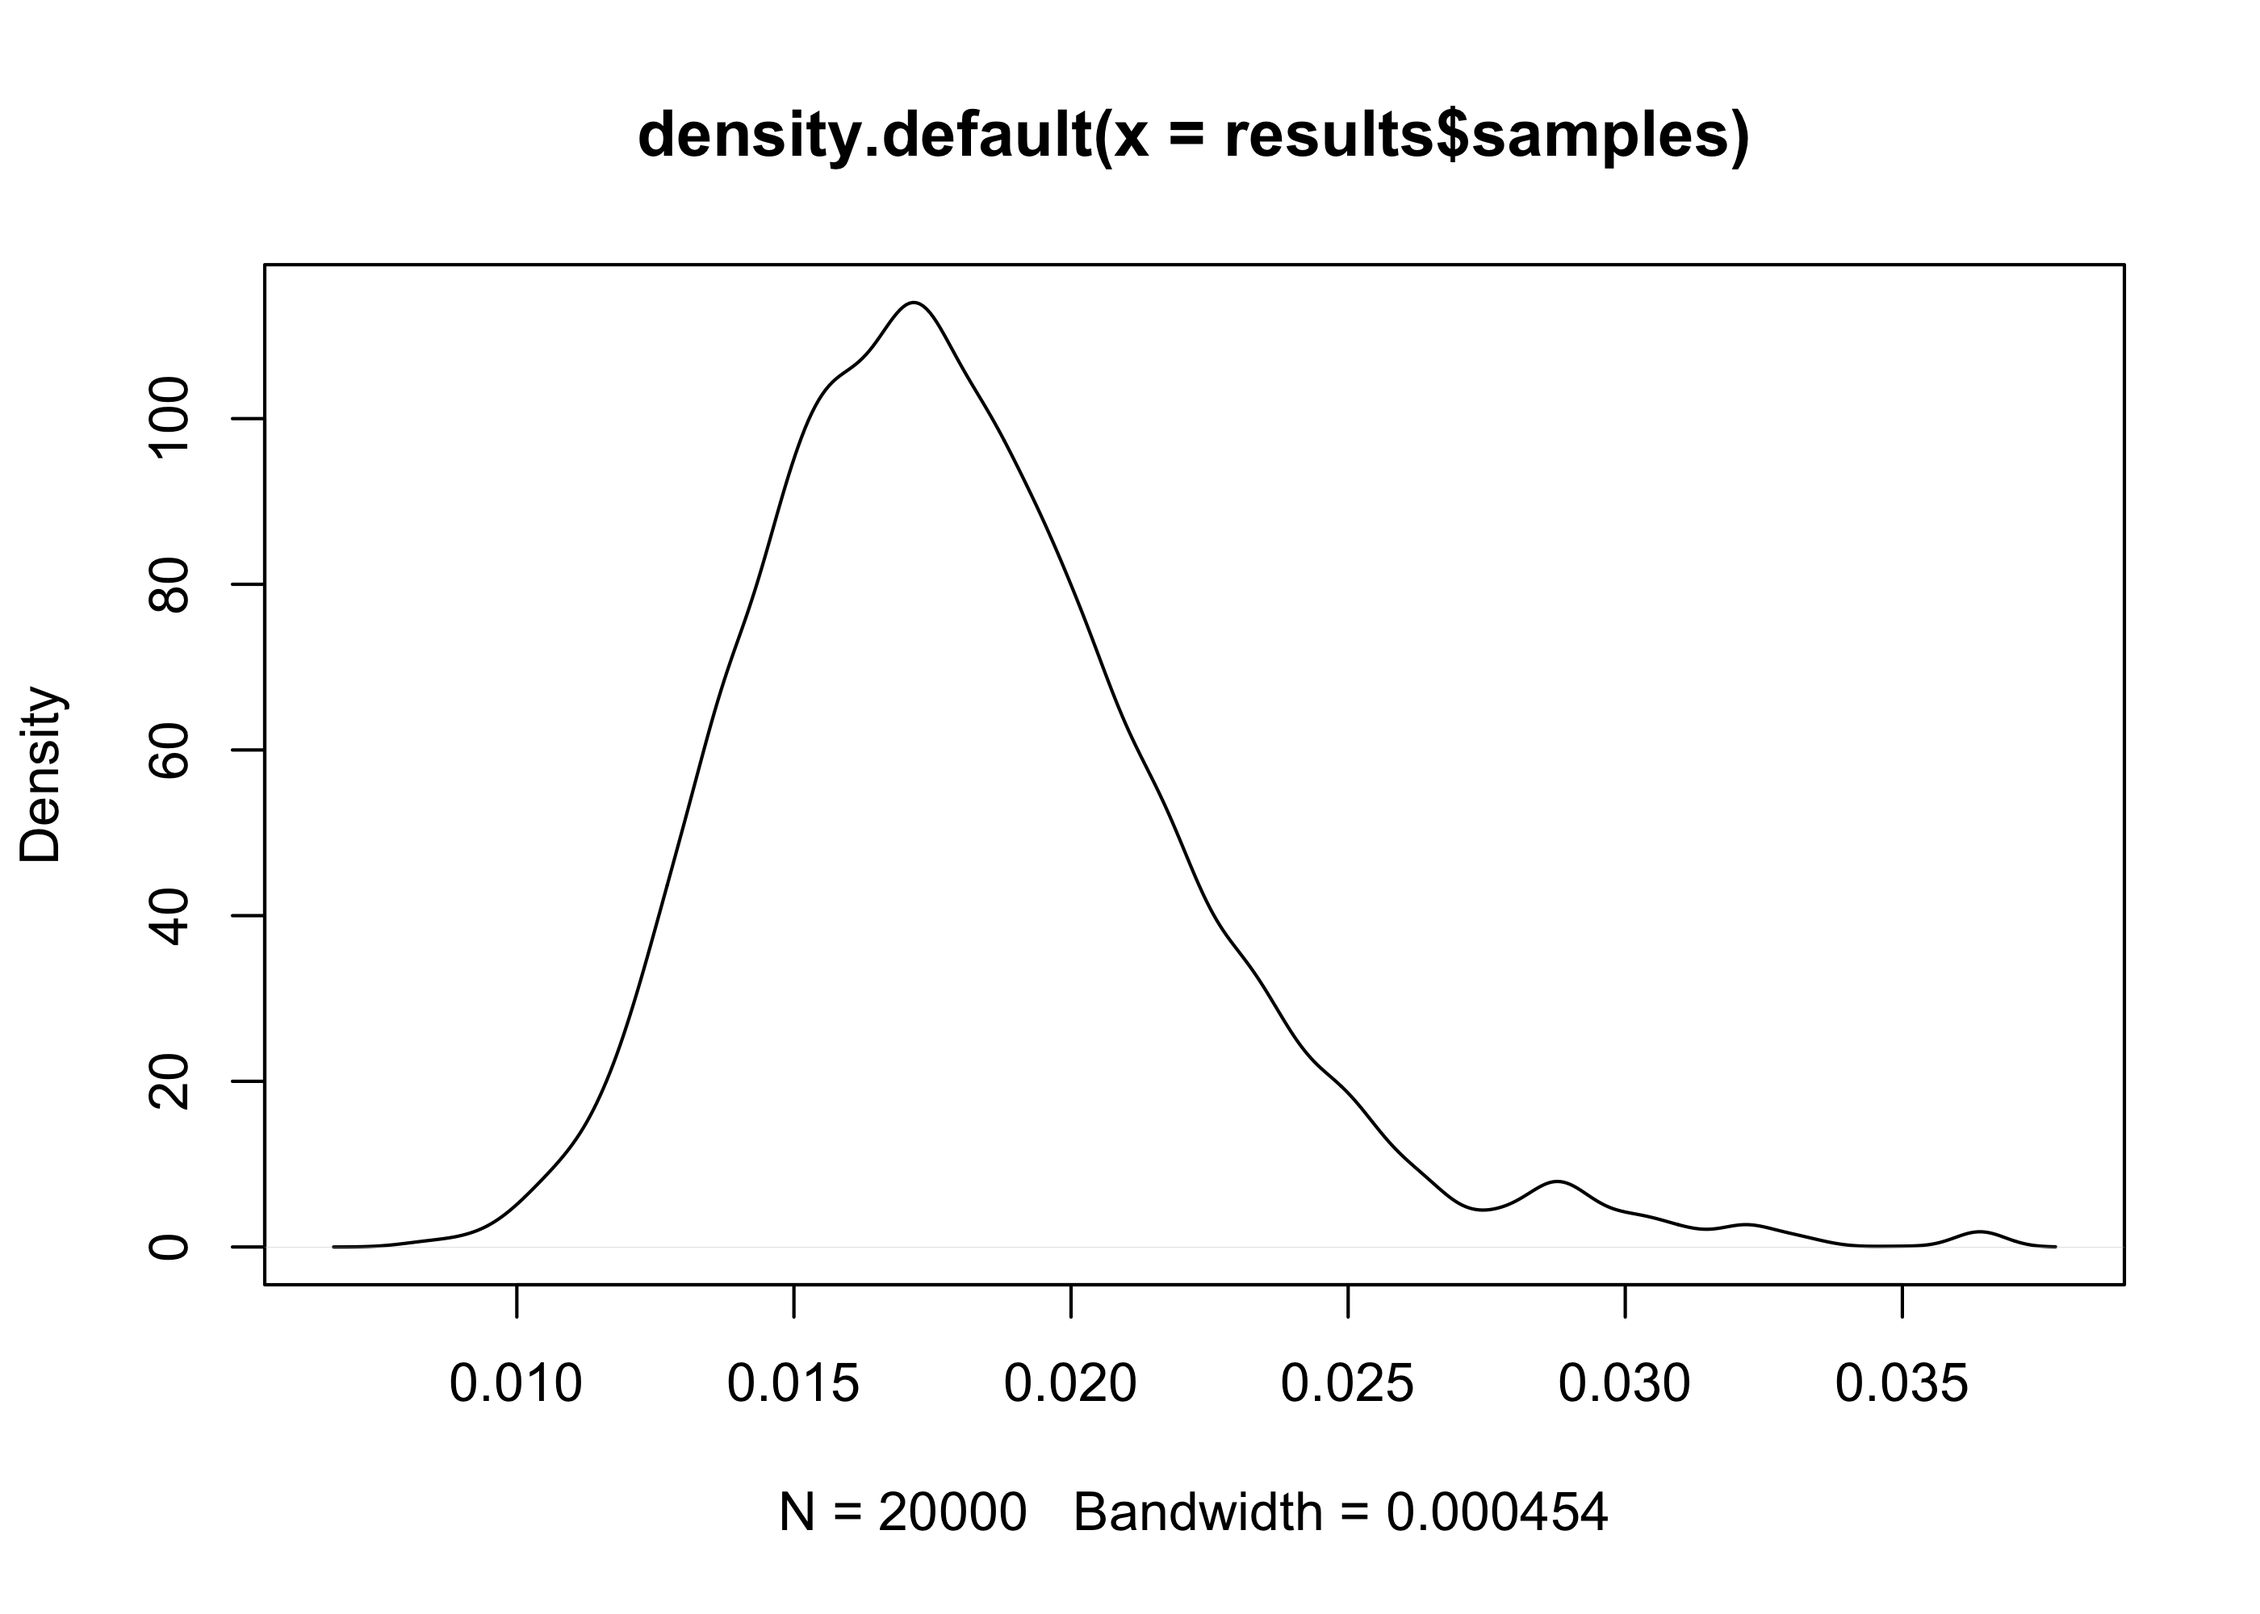
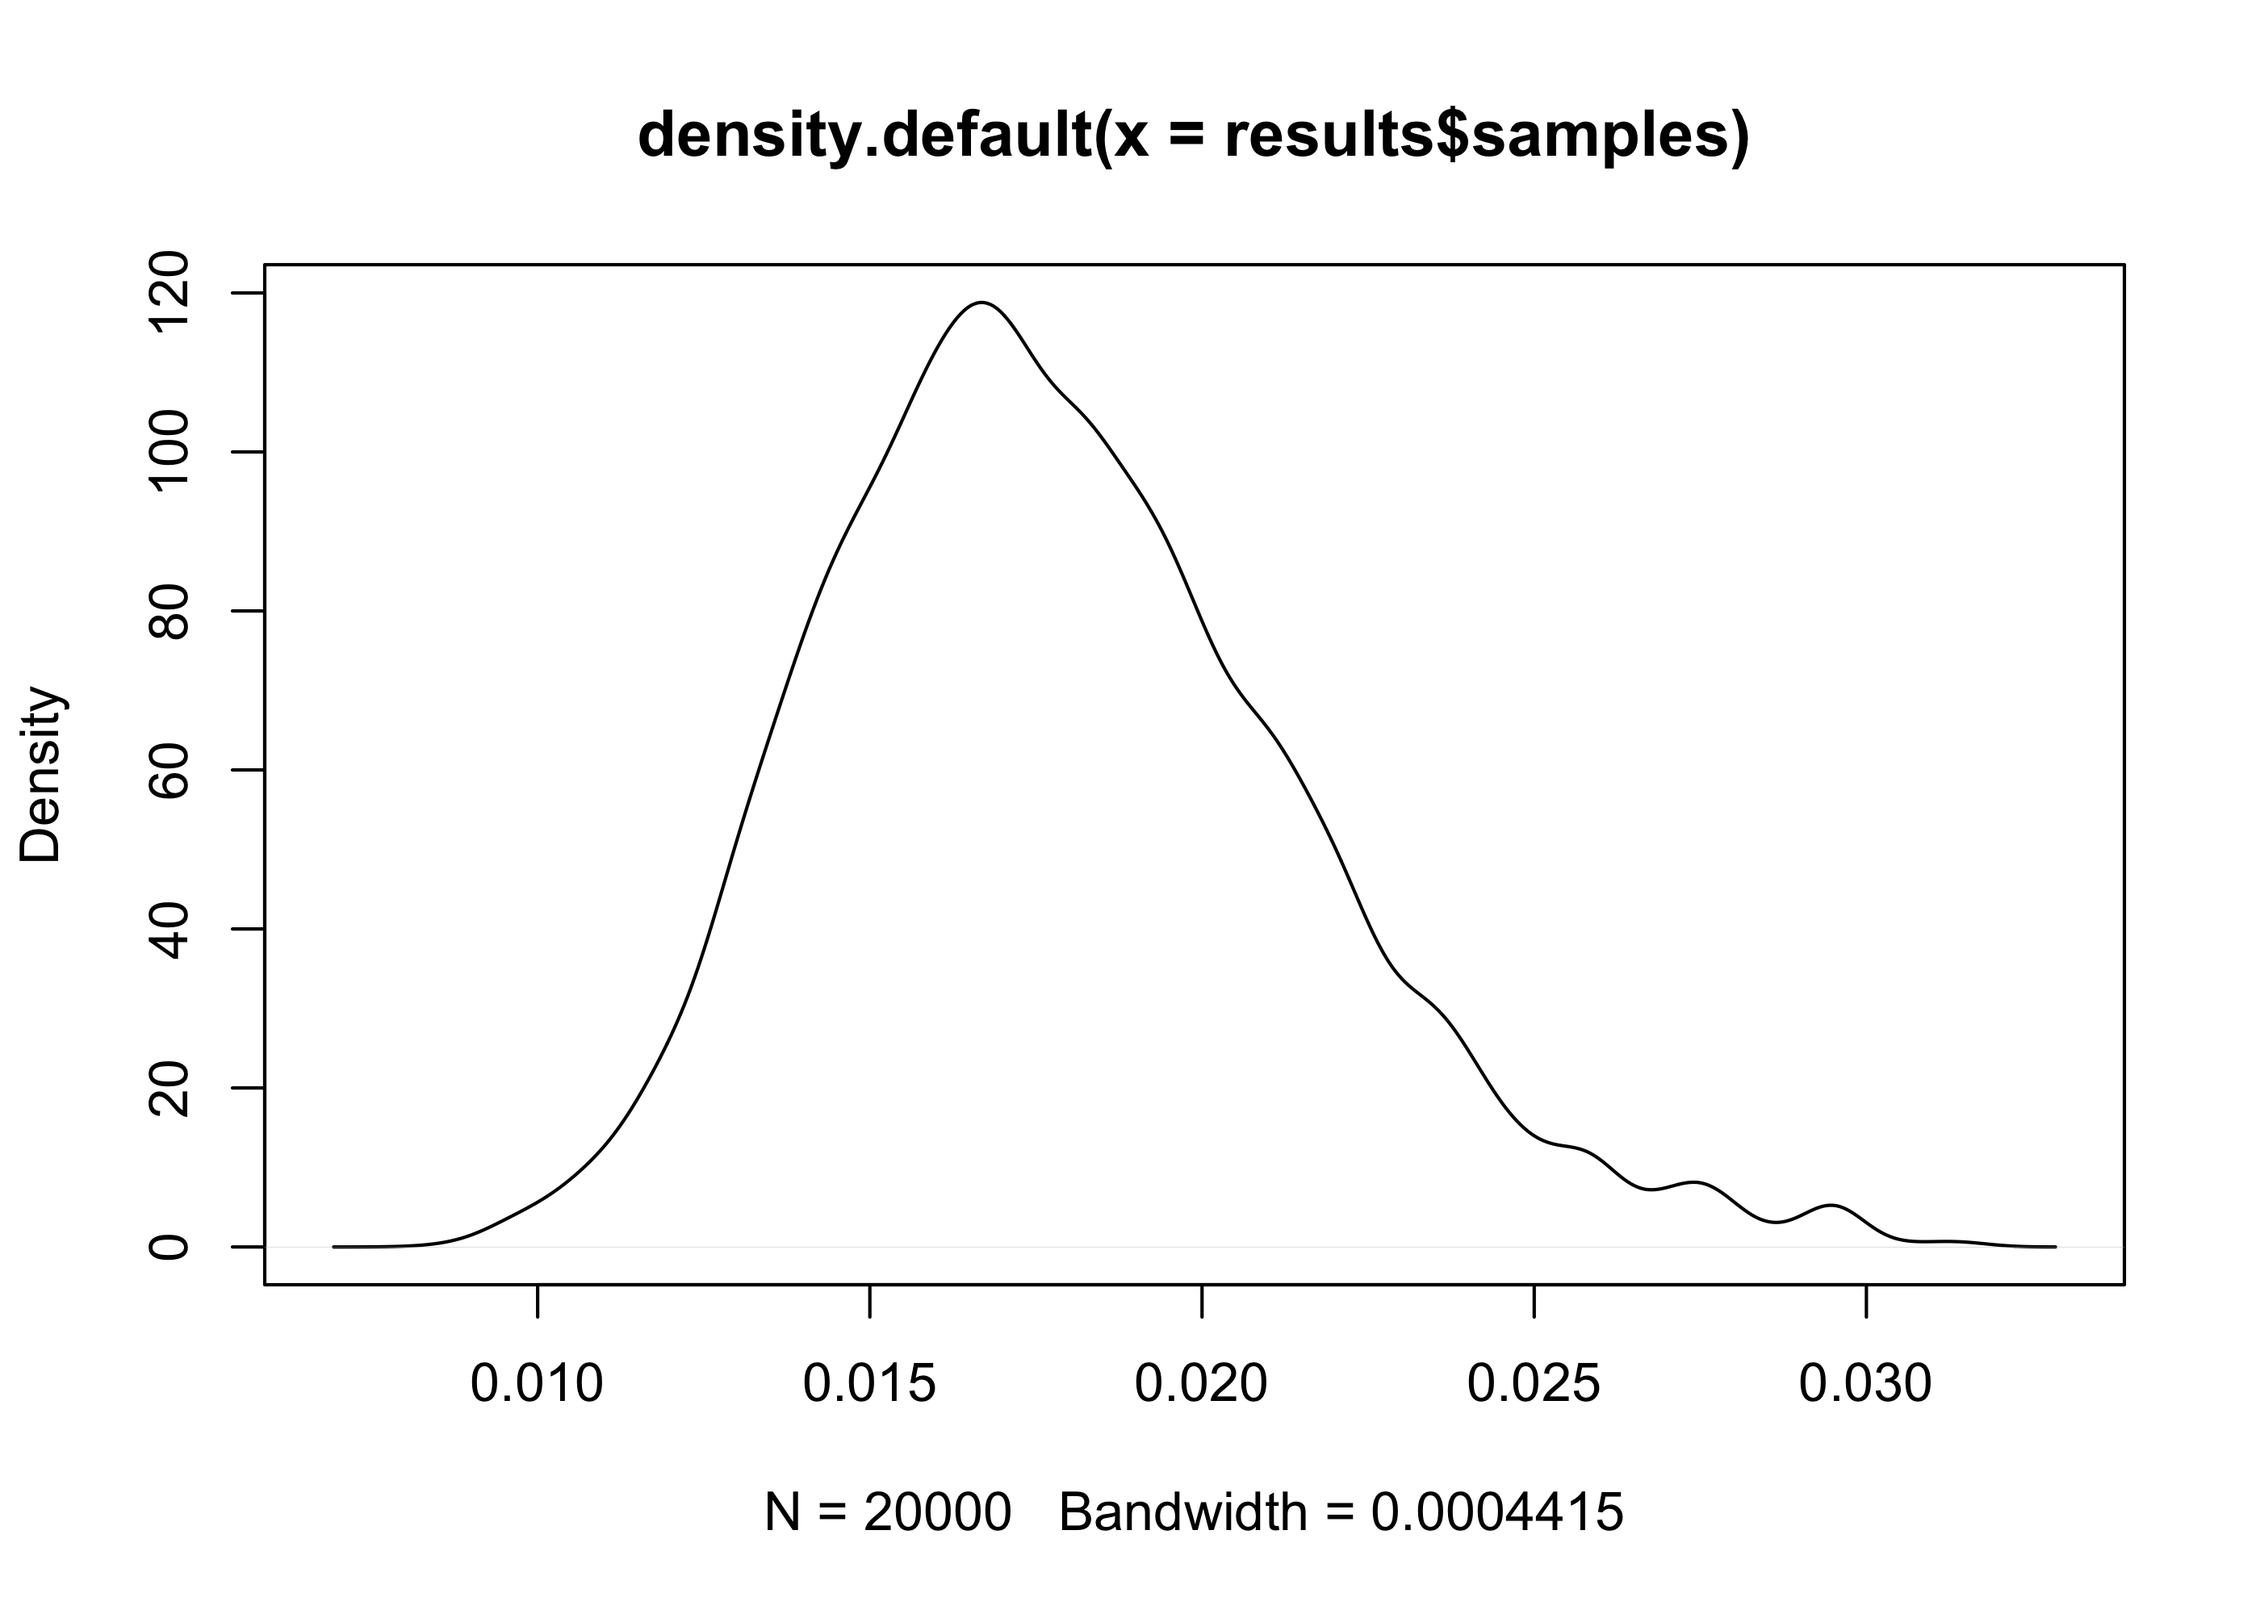
- Typo fixes. - Added more explanations to the optimization plot

diff --git a/README.md b/README.md
@@ -14,7 +14,7 @@ to pool and the total number of tests to perform, focusing on achieving
 the maximum estimation performance (low uncertainty and estimation
 error) while keeping the total amount of tests low. In the package there
 are functions to simulate study outcomes, optimize the study design, and
-finally, analyze the results of a pooled study to retrieve the 
+finally, analyze the results of a pooled study to retrieve the
 prevalence estimates. The package is based on a Bayesian framework, with
 the possibility to perform a full hierarchical analysis including
 uncertainty due to the sensitivity in acquiring the testing material.
@@ -41,8 +41,8 @@ population/risk group, given the results of a pooled laboratory test.
 Let’s assume a test with the following design: 2000 individual
 biological samples divided in 10 samples per testing pool (pool size),
 for a total of 200 pools. In this experiment we observe 30 positive
-pools (15%). With get\_estimates it is possible to estimate the underlying
-prevalence:
+pools (15%). With `get_estimates()` it is possible to estimate the
+underlying prevalence:
 
 ``` r
 library(PooledPrevalence)
@@ -80,7 +80,7 @@ results <- get_estimates(10, 200, 30, method = 'HB')
 #> 
 #> 
 #> @@@@@@@@@@@@@@@@@@@@@@@@@@@@@@@@@@@@@@@@@@@@@@@@@@@@@@@@@
-#> The Metropolis acceptance rate was 0.56020
+#> The Metropolis acceptance rate was 0.67610
 #> @@@@@@@@@@@@@@@@@@@@@@@@@@@@@@@@@@@@@@@@@@@@@@@@@@@@@@@@@
 
 plot(density(results$samples))
@@ -91,22 +91,22 @@ plot(density(results$samples))
 ## Hypothesis testing
 
 Having access to the posterior samples allows Bayesian hypothesis
-testing for decision making. For example a certain region may want to
-remove a certain control measure only if the average prevalence is below
-2% with a \> 90% probability:
+testing for decision making. For example, a public health authority may
+want to remove in a geographical region a certain control measure only
+if the average prevalence is below 2% with a \> 90% probability:
 
 ``` r
 
 results <- get_estimates(10, 200, 30, iters = 200000)
 
 mean(results$samples < .02)
-#> [1] 0.89222
+#> [1] 0.893245
 ```
 
-In this case the probability of a mean prevalence below 2% is 89.2%,
+In this case the probability of a mean prevalence below 2% is 89.3%,
 therefore there’s not enough evidence in favor of removing the control
 measure. We may want to increase the sample size of the study or wait
-more. The Bayesian framework allows to simply add new samples the the
+more. The Bayesian framework allows to simply add new samples to the
 already collected ones and simply update the analysis.
 
 ``` r
@@ -120,13 +120,13 @@ new.positve.pools <- 9
 new.results <- get_estimates(10, 200 + new.tested.pools, 30 + new.positve.pools, iters = 200000)
 
 mean(new.results$samples < .02)
-#> [1] 0.92104
+#> [1] 0.92221
 ```
 
-The new probability is 92.1%, so we have enough evidence to remove the
+The new probability is 92.2%, so we have enough evidence to remove the
 control measure.
 
-Finally we want to ascertain the probability that region A, with 30
+Finally, we want to ascertain the probability that region A, with 30
 positive pools out of 200, has a lower prevalence or region B (38
 positive pools out of 180).
 
@@ -137,7 +137,7 @@ region.A <- get_estimates(10, 200, 30, iters = 200000)
 region.B <- get_estimates(10, 180, 38, iters = 200000)
 
 mean(region.A$samples < region.B$samples)
-#> [1] 0.939335
+#> [1] 0.939065
 ```
 
 ## Study design optimization
@@ -152,15 +152,15 @@ available resources (number of sampled individuals `n.max` and maximum
 number of laboratory test to perform `w.max`), the expected (maximal)
 prevalence, and by the possible reduction in sensitivity due to an
 excessive number of samples in the same pool (`s.max`). This number
-depends from a number of factors (the pathogen, the sensitivity of the
+depends on a number of factors (the pathogen, the sensitivity of the
 test, the laboratory infrastructure and technique), therefore it needs
 to be decided after appropriate local validation tests. A good starting
 point for validation is between 10 and 20 samples per pool.
 
 In the following example we investigate the possible designs for a study
-with a maximal pool size of 15 and maximal number of tests and
+with a maximal pool size of 15 and a maximal number of tests and
 individuals to sample equal to 2000. We also set a maximal expected
-prevalence 0f 5%. Given the nature of pooled testing, the statistical
+prevalence of 5%. Given the nature of pooled testing, the statistical
 accuracy decreases with the prevalence, so it is better to select a
 value which is higher than the prevalence we actually expect to find, in
 order not to end up with an underpowered study.
@@ -174,18 +174,20 @@ plot_optimization_grid(grid)
 
 <img src="man/figures/README-optimization_grid-1.png" width="100%" />
 
-We can observe that the best “optimization window” is achieved with a
-pool size `s` of 10 or more and with a number of test `w` higher than
-108.
+The plot shows the “optimization windows” with different colors, ordered
+by the average score (lower is better).
+
+We can observe that the best window is achieved with a pool size `s` of
+10 or more and with a number of test `w` higher than 108.
 
 Once a window has been identified, simulation tests can be used to
 evaluate the statistical performance. The tests need to be carried on
-specific couple of values of pool size `s` and number of tests `w`.
+specific couples of values of pool size `s` and number of tests `w`.
 
 In order to decrease the risk of sensitivity problems we suggest to
 evaluate the more conservative designs in term of pool size (lower `s`),
 but validation studies can allow to choose a higher value. Regarding the
-number of test, one should use the higher number that is achievable
+number of tests, one should use the higher number that is achievable
 during the study, since the higher the number of tests, the higher the
 statistical precision; through pooling the maximum number of test needed
 is already decreased by a factor equal to `s` (e.g. for `s == 10`, given
@@ -201,28 +203,28 @@ simulation.low_w <- simulate_pool_test(s = 10, w = 108, p = 0.05)
 
 print(format_simulation(simulation.low_w))
 #>                            [,1]                           
-#> Estimated prevalence       "4.9%, 95%CI: [3.6%, 6.7%]"    
+#> Estimated prevalence       "4.9%, 95%CI: [3.6%, 6.5%]"    
 #> Estimation uncertainty     "2.9%, 95%CI: [2.4%, 3.5%]"    
 #> Estimation error           "0.55%, 95%CI: [5e-04, 1.7%]"  
 #> Unpooled study prevalence  "5%, 95%CI: [3.7%, 6.4%]"      
 #> Unpooled study uncertainty "2.6%, 95%CI: [2.3%, 2.9%]"    
-#> Unpooled study error       "0.47%, 95%CI: [2.7e-05, 1.5%]"
+#> Unpooled study error       "0.46%, 95%CI: [2.7e-05, 1.5%]"
 
 simulation.high_w <- simulate_pool_test(s = 10, w = 200, p = 0.05)
 
 print(format_simulation(simulation.high_w))
-#>                            [,1]                          
-#> Estimated prevalence       "5%, 95%CI: [4%, 6.2%]"       
-#> Estimation uncertainty     "2.2%, 95%CI: [1.9%, 2.5%]"   
-#> Estimation error           "0.38%, 95%CI: [0.021%, 1.2%]"
-#> Unpooled study prevalence  "5%, 95%CI: [4%, 6%]"         
-#> Unpooled study uncertainty "1.9%, 95%CI: [1.7%, 2.1%]"   
-#> Unpooled study error       "0.3%, 95%CI: [1.5e-05, 1.1%]"
+#>                            [,1]                           
+#> Estimated prevalence       "5%, 95%CI: [4%, 6.2%]"        
+#> Estimation uncertainty     "2.2%, 95%CI: [1.9%, 2.5%]"    
+#> Estimation error           "0.33%, 95%CI: [0.021%, 1.2%]" 
+#> Unpooled study prevalence  "5%, 95%CI: [4%, 5.9%]"        
+#> Unpooled study uncertainty "1.9%, 95%CI: [1.7%, 2.1%]"    
+#> Unpooled study error       "0.35%, 95%CI: [1.5e-05, 1.1%]"
 ```
 
-It is possible to see that in both simulation the statistical accuracy
+It is possible to see that in both simulations the statistical accuracy
 of the pooled design is similar to that achieved through an unpooled
-study (e.g. `s_unpooled = 1` and `w_unpooled = w * s`). Instead it’s
+study (e.g. `s_unpooled = 1` and `w_unpooled = w * s`). Instead, it’s
 possible to observe a definite decrease in uncertainty and error passing
-from 108 to 200 tests. In any case both, numbers are definitely lower
+from 108 to 200 tests. In any case, both numbers are definitely lower
 than than the 2000 tests that would have been performed wihout pooling.
